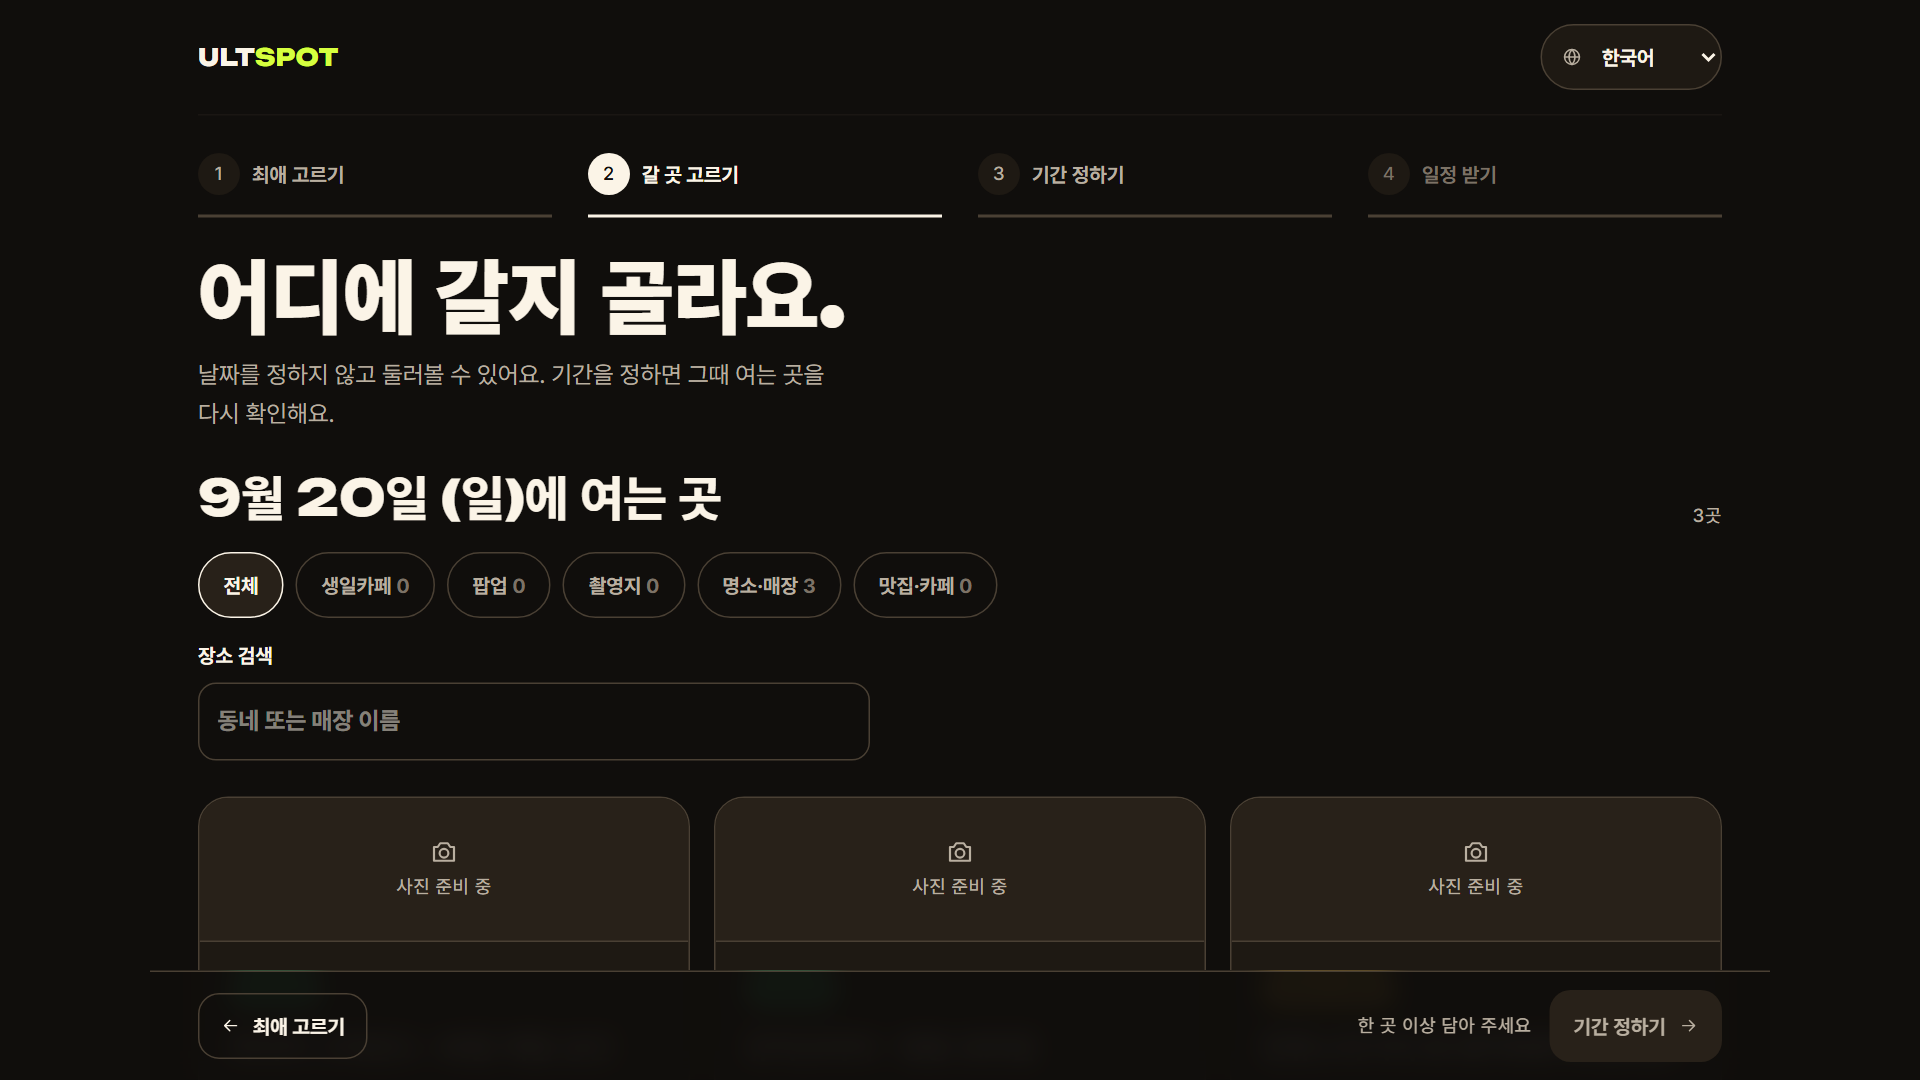
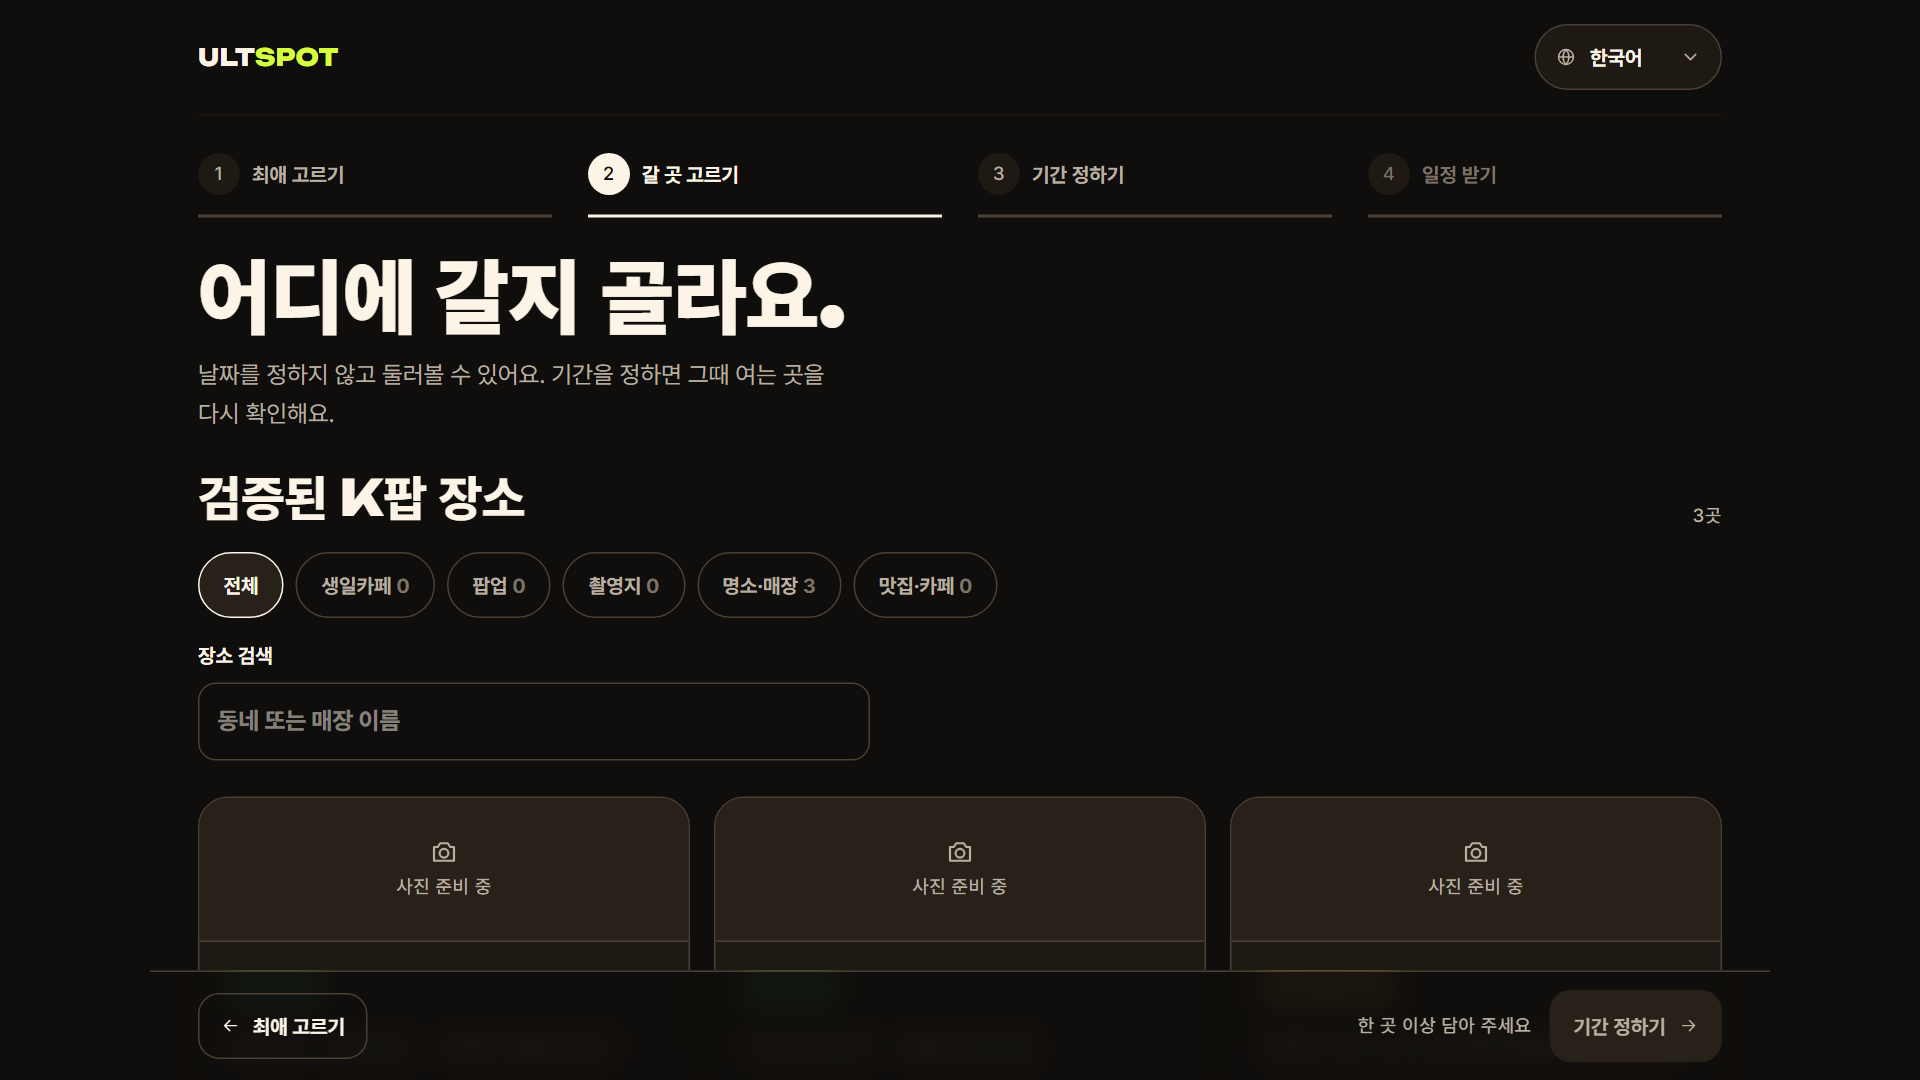
fix(plan): 2단계가 정하지 않은 날짜를 단언하던 문구를 걷어낸다 (T-034)
critique 4회차의 P0다. 2단계(갈 곳 고르기)는 날짜로 거르지 않는다 —
trip-planner.tsx:89의 조건은 `step > 1`이고 2단계는 인덱스 1이다. 그런데
제목이 "9월 20일 (일)에 여는 곳", 아티스트 배너가 "9월 20일에 …없어요",
빈 상태가 "다른 날짜를 고르거나"였다. 바로 위 부제는 "날짜를 정하지 않고
둘러볼 수 있어요"라고 말하는데.

사용자가 준 적 없는 날짜에 대해 검증하지 않은 날짜별 운영 여부를 단언하는
것이다. 지어낸 운영시간과 같은 부류이고, 이 제품이 감당 못 하는 결함이다.
월요일에 열면 아무도 고르지 않은 날에 대해 HiKR Ground가 "휴무"로 찍혔다.

listTitle·artistNone에서 날짜 인자를 뺐고, empty·emptyNext·artistNoneNext에서
날짜 언급을 지웠다. 4개 사전 모두. 날짜는 3단계에서 정한다.

같이 고친 것:

- ja/zh 검색 예시 `Stray Kids、필릭스…` → `Felix`. 3회차에서 "한국어 이름
  검색이 된다는 예시"라며 가드 테스트에 예외를 풀어줬는데, 4회차에서 같은
  자리가 다시 잡혔다. 일본어 독자에게는 첫 단계 첫 입력칸의 한글일 뿐이다.
  예외를 지웠다. 문자열 하나를 고치고 규칙을 안 세운 게 실수였다.
- 언어 선택의 오른쪽 여백. 브라우저 기본 화살표가 테두리에 붙어 그려져
  여백을 줄 수 없었다. appearance-none으로 끄고 직접 그린다.
- 헤더 뒤 입자. 시드 11에서 입자 하나가 언어 선택 바로 아래에 떨어져
  컨트롤에 붙은 점처럼 보였다. 시드를 바꾸면 다른 자리로 갈 뿐이라 헤더
  높이만큼 마스크로 비운다.
- 데스크톱 스크롤 단서. 히어로가 첫 화면을 채우면 아래가 있다는 걸 알 길이
  없었다. critique는 배너를 살짝 보이게 하자고 했지만 대표 이미지에 지도가
  다시 들어와서 버렸고, 대신 아래 화살표를 둔다.

하지 않은 것: 카드의 "이날 운영" 배지. spot-card.tsx가 spotStatus(event,
date)로 날짜를 받는 구조라 Kiro 담당 파일의 계약을 바꿔야 한다. 요청으로
남긴다. 아티스트 1단계는 사용자 결정으로 그대로 둔다.

검증: E2E 213건 통과·3건 skip(클라우드 키 없음), typecheck 0, lint 오류 0.
가드 예외를 지운 채 통과했으니 ja/zh 사전에 한글이 실제로 없다. 캡처를
열어 화살표 여백과 헤더 뒤 점이 사라진 것을 확인했다. 대표 이미지 7장을
다시 찍었다.

Changed region(s): [[0.0938, 0.4278, 0.375, 0.4889], [0.8125, 0.0306, 0.875, 0.0611]]

diff --git a/src/i18n/messages.ts b/src/i18n/messages.ts
@@ -80,13 +80,13 @@ const en = {
     none: "This artist isn’t in our verified selection yet. Try another name or explore all K-pop.",
   },
   spots: {
-    listTitle: (day: string) => `Open on ${day}`,
+    listTitle: "Checked K-pop places",
     count: (shown: number) => `${shown} ${shown === 1 ? "place" : "places"}`,
     search: "Search places",
     searchPlaceholder: "Neighborhood or shop",
     artistMatch: (names: string) => `Some places below are linked to ${names}.`,
-    artistNone: (names: string, day: string) => `No verified spots for ${names} on ${day} yet.`,
-    artistNoneNext: "Here are the checked K-pop places open that day. Found a birthday café on X? Add it from its notice.",
+    artistNone: (names: string) => `No verified spots for ${names} yet.`,
+    artistNoneNext: "Here are the checked K-pop places. Found a birthday café on X? Add it from its notice.",
     addFromNotice: "Add an event from its notice",
     photoPending: "Photo coming soon",
     hours: (open: string, close: string) => `${open}–${close}`,
@@ -119,8 +119,8 @@ const en = {
     remove: "Remove",
     added: "Added",
     full: "Your list is full (6)",
-    empty: "No places match this search on this date.",
-    emptyNext: "Clear the search, try another date, or add an event from its notice.",
+    empty: "No places match this search.",
+    emptyNext: "Clear the search, pick another category, or add an event from its notice.",
     clearSearch: "Clear search",
     manage: (n: number) => `Manage my events (${n}/12)`,
     deleteEvent: (title: string) => `Delete ${title}`,
@@ -371,13 +371,13 @@ const ko: Messages = {
     none: "아직 검증한 아티스트 목록에 없어요. 다른 이름으로 찾거나 K팝 전체를 둘러보세요.",
   },
   spots: {
-    listTitle: (day: string) => `${day}에 여는 곳`,
+    listTitle: "검증된 K팝 장소",
     count: (shown: number) => `${shown}곳`,
     search: "장소 검색",
     searchPlaceholder: "동네 또는 매장 이름",
     artistMatch: (names: string) => `아래 장소 중 일부가 ${names}과 이어져 있어요.`,
-    artistNone: (names: string, day: string) => `${day}에 ${names} 관련 검증된 장소는 아직 없어요.`,
-    artistNoneNext: "그날 여는 K팝 장소를 먼저 보여 드릴게요. X에서 생일카페 공지를 찾았다면 직접 추가할 수 있어요.",
+    artistNone: (names: string) => `${names} 관련 검증된 장소는 아직 없어요.`,
+    artistNoneNext: "검증된 K팝 장소를 먼저 보여 드릴게요. X에서 생일카페 공지를 찾았다면 직접 추가할 수 있어요.",
     addFromNotice: "공지 보고 행사 추가",
     photoPending: "사진 준비 중",
     hours: (open: string, close: string) => `${open}–${close}`,
@@ -410,8 +410,8 @@ const ko: Messages = {
     remove: "빼기",
     added: "담음",
     full: "6곳을 모두 담았어요",
-    empty: "이 날짜에 검색과 맞는 장소가 없어요.",
-    emptyNext: "검색어를 지우거나, 다른 날짜를 고르거나, 공지를 보고 행사를 추가해 보세요.",
+    empty: "검색과 맞는 장소가 없어요.",
+    emptyNext: "검색어를 지우거나, 다른 분류를 고르거나, 공지를 보고 행사를 추가해 보세요.",
     clearSearch: "검색 지우기",
     manage: (n: number) => `내가 추가한 행사 관리 (${n}/12)`,
     deleteEvent: (title: string) => `${title} 삭제`,

diff --git a/src/i18n/messages.ja.ts b/src/i18n/messages.ja.ts
@@ -65,7 +65,7 @@ export const ja: Messages = {
     hint: "最大5組まで選べます。確認済みの関連スポットがあればお知らせします。",
     all: "K-POP全体を見る",
     search: "アーティスト検索",
-    placeholder: "Stray Kids、필릭스…",
+    placeholder: "Stray Kids、Felix…",
     results: "検索結果",
     remove: "外す",
     member: (group: string) => `${group} メンバー`,
@@ -75,13 +75,13 @@ export const ja: Messages = {
     birthday: (date: string) => `誕生日 ${date}`,
   },
   spots: {
-    listTitle: (day: string) => `${day}に開いている場所`,
+    listTitle: "確認済みのK-POPスポット",
     count: (shown: number) => `${shown}か所`,
     search: "場所を検索",
     searchPlaceholder: "エリアまたは店名",
     artistMatch: (names: string) => `下の場所のいくつかは${names}に関連しています。`,
-    artistNone: (names: string, day: string) => `${day}時点で、${names}の確認済みスポットはまだありません。`,
-    artistNoneNext: "その日に開いている確認済みのK-POPスポットを表示します。Xでセンイルカフェの告知を見つけたら、ご自身で追加できます。",
+    artistNone: (names: string) => `${names}の確認済みスポットはまだありません。`,
+    artistNoneNext: "確認済みのK-POPスポットを先に表示します。Xでセンイルカフェの告知を見つけたら、ご自身で追加できます。",
     addFromNotice: "告知を見てイベントを追加",
     photoPending: "写真準備中",
     hours: (open: string, close: string) => `${open}–${close}`,
@@ -114,8 +114,8 @@ export const ja: Messages = {
     remove: "外す",
     added: "追加済み",
     full: "6か所すべて追加しました",
-    empty: "この日付と検索条件に合う場所がありません。",
-    emptyNext: "検索条件を消すか、別の日付を選ぶか、告知を見てイベントを追加してください。",
+    empty: "検索条件に合う場所がありません。",
+    emptyNext: "検索条件を消すか、別のカテゴリを選ぶか、告知を見てイベントを追加してください。",
     clearSearch: "検索を消す",
     manage: (n: number) => `追加したイベントの管理 (${n}/12)`,
     deleteEvent: (title: string) => `${title} を削除`,

diff --git a/src/i18n/messages.zh.ts b/src/i18n/messages.zh.ts
@@ -63,7 +63,7 @@ export const zh: Messages = {
     hint: "最多可选 5 组。如果有已核实的相关地点，我们会标出来。",
     all: "浏览全部 K-pop",
     search: "搜索艺人",
-    placeholder: "Stray Kids、필릭스…",
+    placeholder: "Stray Kids、Felix…",
     results: "搜索结果",
     remove: "移除",
     member: (group: string) => `${group} 成员`,
@@ -73,13 +73,13 @@ export const zh: Messages = {
     birthday: (date: string) => `生日 ${date}`,
   },
   spots: {
-    listTitle: (day: string) => `${day}开放的地点`,
+    listTitle: "已核实的 K-pop 地点",
     count: (shown: number) => `${shown} 处`,
     search: "搜索地点",
     searchPlaceholder: "区域或店名",
     artistMatch: (names: string) => `下面部分地点与${names}有关。`,
-    artistNone: (names: string, day: string) => `${day}暂时没有与${names}相关的已核实地点。`,
-    artistNoneNext: "先看看当天开放的已核实 K-pop 地点。在 X 上找到生日咖啡厅公告的话，可以自己添加。",
+    artistNone: (names: string) => `暂时没有与${names}相关的已核实地点。`,
+    artistNoneNext: "先看看已核实的 K-pop 地点。在 X 上找到生日咖啡厅公告的话，可以自己添加。",
     addFromNotice: "根据公告添加活动",
     photoPending: "照片准备中",
     hours: (open: string, close: string) => `${open}–${close}`,
@@ -112,8 +112,8 @@ export const zh: Messages = {
     remove: "移除",
     added: "已添加",
     full: "已添加满 6 处",
-    empty: "这个日期没有符合搜索条件的地点。",
-    emptyNext: "清除搜索条件、换个日期，或根据公告添加活动。",
+    empty: "没有符合搜索条件的地点。",
+    emptyNext: "清除搜索条件、换个分类，或根据公告添加活动。",
     clearSearch: "清除搜索",
     manage: (n: number) => `管理我添加的活动 (${n}/12)`,
     deleteEvent: (title: string) => `删除 ${title}`,

diff --git a/src/components/language-toggle.tsx b/src/components/language-toggle.tsx
@@ -3,7 +3,7 @@
 import { cn } from "@/lib/cn";
 import { locales, type Locale } from "@/i18n/config";
 import { useI18n } from "@/i18n/locale";
-import { GlobeIcon } from "@/components/icons";
+import { ChevronDownIcon, GlobeIcon } from "@/components/icons";
 
 /**
  * 언어 선택. 4개 언어라 칩을 나열하면 390px에서 두 줄로 접히고 터치 영역도 좁아져서 select를 쓴다.
@@ -18,15 +18,18 @@ export function LanguageToggle({ className }: { className?: string }) {
       {/* 한국어를 못 읽는 사람에게 "한국어"라고 적힌 알약은 아무 단서가 아니다.
           기본 화살표 하나에 기대지 않도록 지구본을 붙인다. */}
       <GlobeIcon className="pointer-events-none absolute left-3.5 text-body-sm text-text-muted" />
+      {/* 브라우저 기본 화살표는 테두리에 붙어 그려져 오른쪽 여백을 줄 수 없었다.
+          appearance-none으로 끄고 직접 그려서 양쪽 여백을 맞춘다. */}
       <select
         value={locale}
         onChange={event => setLocale(event.target.value as Locale)}
-        className="min-h-11 rounded-full border border-line-strong bg-surface py-2 pl-9 pr-4 text-label text-text"
+        className="min-h-11 appearance-none rounded-full border border-line-strong bg-surface py-2 pl-9 pr-10 text-label text-text"
       >
         {locales.map(value => (
           <option key={value} value={value} lang={value}>{t.lang[value]}</option>
         ))}
       </select>
+      <ChevronDownIcon className="pointer-events-none absolute right-3.5 text-body-sm text-text-muted" />
     </label>
   );
 }

diff --git a/src/components/trip-planner.tsx b/src/components/trip-planner.tsx
@@ -373,7 +373,7 @@ export function TripPlanner({ today }: { today: string }) {
 
     {step === 1 && <section aria-label={t.steps.labels[1]}>
       {artistIds.length > 0 && <div className={cn("mb-6 rounded-xl border p-5", hasArtistSpots ? "border-line-strong" : "border-warning/40 bg-surface")}>
-        <p className="text-body">{hasArtistSpots ? t.spots.artistMatch(artistNames) : t.spots.artistNone(artistNames, dayLabel)}</p>
+        <p className="text-body">{hasArtistSpots ? t.spots.artistMatch(artistNames) : t.spots.artistNone(artistNames)}</p>
         {!hasArtistSpots && <>
           <p className="mt-2 text-body-sm text-text-muted">{t.spots.artistNoneNext}</p>
           <Button className="mt-4" variant="ghost" onClick={askForEvent}>{t.spots.addFromNotice} <ArrowRightIcon /></Button>
@@ -381,7 +381,9 @@ export function TripPlanner({ today }: { today: string }) {
       </div>}
 
       <div className="flex flex-wrap items-end justify-between gap-4">
-        <h2 className="text-heading">{t.spots.listTitle(dayLabel)}</h2>
+        {/* 2단계는 날짜로 거르지 않는다(위 runsOn 조건은 step > 1). 그런데 제목·배너·빈 상태가
+            사용자가 정하지 않은 기본 날짜를 사실처럼 단언하고 있었다. 날짜는 3단계에서 정한다. */}
+        <h2 className="text-heading">{t.spots.listTitle}</h2>
         <p role="status" className="text-caption text-text-muted">{t.spots.count(candidates.length)}</p>
       </div>
       {/* 필터마다 개수를 함께 보여준다. 0인 분류를 숨기면 "없다"는 사실이 가려진다. */}

diff --git a/src/components/home-intro.tsx b/src/components/home-intro.tsx
@@ -2,7 +2,7 @@
 
 import Link from "next/link";
 import { MapBanner, Wordmark } from "@/components/brand";
-import { ArrowRightIcon } from "@/components/icons";
+import { ArrowDownIcon, ArrowRightIcon } from "@/components/icons";
 import { LanguageToggle } from "@/components/language-toggle";
 import { buttonStyles } from "@/components/ui";
 import { useI18n } from "@/i18n/locale";
@@ -40,6 +40,12 @@ export function HomeIntro() {
           <Link href="/plan" className={buttonStyles({ size: "lg" })}>
             {t.home.cta} <ArrowRightIcon />
           </Link>
+        </div>
+        {/* 넓은 화면에서 히어로가 첫 화면을 다 차지하면 아래에 더 있다는 걸 알 길이 없다.
+            배너를 살짝 보이게 하는 대안은 대표 이미지에 지도가 다시 들어와서 버렸다.
+            장식이라 스크린리더에는 숨긴다 — 스크롤은 원래 되는 동작이다. */}
+        <div aria-hidden="true" className="mt-auto hidden justify-start pt-10 text-text-faint md:flex">
+          <ArrowDownIcon className="animate-dot-pulse text-subhead" />
         </div>
       </div>
 

diff --git a/src/components/icons.tsx b/src/components/icons.tsx
@@ -20,6 +20,8 @@ export const GlobeIcon = (p: SVGProps<SVGSVGElement>) => <Icon {...p}><circle cx
 export const PlusIcon = (p: SVGProps<SVGSVGElement>) => <Icon {...p}><path d="M12 5v14M5 12h14" /></Icon>;
 export const ArrowRightIcon = (p: SVGProps<SVGSVGElement>) => <Icon {...p}><path d="M5 12h14M13 6l6 6-6 6" /></Icon>;
 export const ArrowLeftIcon = (p: SVGProps<SVGSVGElement>) => <Icon {...p}><path d="M19 12H5M11 6l-6 6 6 6" /></Icon>;
+export const ArrowDownIcon = (p: SVGProps<SVGSVGElement>) => <Icon {...p}><path d="M12 5v14M6 13l6 6 6-6" /></Icon>;
+export const ChevronDownIcon = (p: SVGProps<SVGSVGElement>) => <Icon {...p}><path d="m6 9 6 6 6-6" /></Icon>;
 export const ExternalIcon = (p: SVGProps<SVGSVGElement>) => <Icon {...p}><path d="M14 5h5v5M19 5l-8 8M18 14v5H5V6h5" /></Icon>;
 export const CalendarIcon = (p: SVGProps<SVGSVGElement>) => <Icon {...p}><rect x="4" y="5" width="16" height="15" rx="2" /><path d="M4 10h16M9 3v4M15 3v4" /></Icon>;
 export const PinIcon = (p: SVGProps<SVGSVGElement>) => <Icon {...p}><path d="M12 21s-6-5.6-6-11a6 6 0 0 1 12 0c0 5.4-6 11-6 11z" /><circle cx="12" cy="10" r="2.2" /></Icon>;

diff --git a/e2e/i18n-guard.spec.ts b/e2e/i18n-guard.spec.ts
@@ -35,10 +35,11 @@ function leaks(dict: Record<string, unknown>, pattern: RegExp) {
 }
 
 test("일본어·중국어 UI 문구에 한글이 섞이지 않는다 @static", () => {
-  // artists.placeholder는 한국어 이름 검색이 된다는 것을 보여주는 예시라 의도된 한글이다.
-  const allow = (hit: string) => hit.startsWith("artists.placeholder:");
-  expect(leaks(ja, HANGUL).filter(h => !allow(h))).toEqual([]);
-  expect(leaks(zh, HANGUL).filter(h => !allow(h))).toEqual([]);
+  // 3회차에서 artists.placeholder("Stray Kids、필릭스…")를 "검색 예시라 의도된 한글"로 예외 처리했다가
+  // 4회차 critique에서 다시 잡혔다. 일본어 독자에게는 첫 단계 첫 입력칸의 한글일 뿐이다.
+  // 예외 없이 막는다. 검색 예시는 라틴 이름(Felix)으로도 충분하다.
+  expect(leaks(ja, HANGUL)).toEqual([]);
+  expect(leaks(zh, HANGUL)).toEqual([]);
 });
 
 test("한국어·영어 UI 문구에 가나가 섞이지 않는다 @static", () => {

diff --git a/src/app/page.tsx b/src/app/page.tsx
@@ -14,8 +14,11 @@ export default function HomePage() {
         radius={[1.5, 4.5]}
         alpha={[0.12, 0.45]}
         seed={11}
-        className="absolute inset-x-0 top-0 h-[62vh] [mask-image:linear-gradient(180deg,#000_30%,transparent)]"
+        className="absolute inset-x-0 top-0 h-[62vh] [mask-image:linear-gradient(180deg,transparent_0,transparent_5.5rem,#000_8rem,#000_30%,transparent)]"
       />
+      {/* 마스크가 위 5.5rem을 비우는 이유: 입자 하나가 언어 선택 바로 아래에 떨어져
+          컨트롤에 붙은 점처럼 보였다. 시드를 바꾸면 다른 자리로 옮겨갈 뿐이라,
+          헤더 높이만큼은 어떤 시드에서도 입자가 안 깔리게 한다. */}
       <HomeIntro />
     </main>
   );
